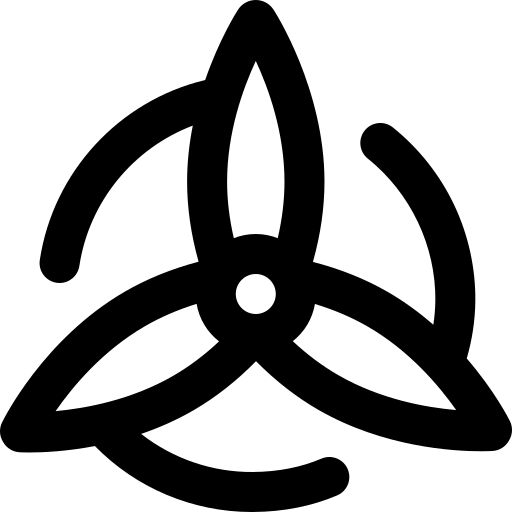
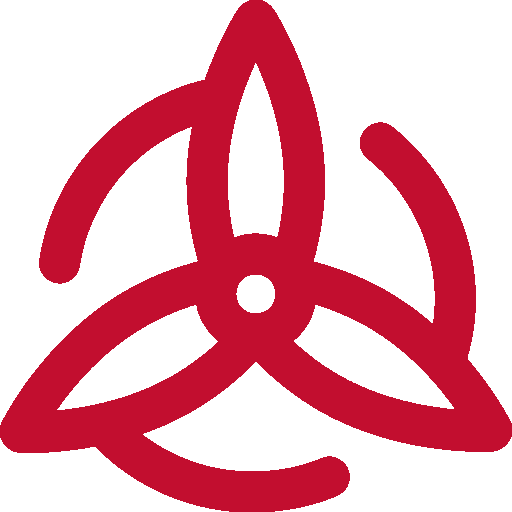
home finished

diff --git a/frontend/src/pages/Home.jsx b/frontend/src/pages/Home.jsx
@@ -52,15 +52,16 @@ function HomePage() {
     ? stocksLoading || interestLoading
     : stocksLoading;
 
-  if (isLoading) {
-    return (
-      <div className="grid grid-cols-1 justify-center items-center h-screen">
-        <div className="flex justify-center">
-          <div className="animate-spin rounded-full h-12 w-12 border-t-4 border-black border-solid"></div>
+    if (isLoading) {
+      return (
+        <div className="min-h-screen flex items-center justify-center bg-gray-50 py-12 px-4 sm:px-6 lg:px-8">
+          <div className="text-center">
+            <div className="w-16 h-16 border-4 border-t-4 border-gray-200 rounded-full animate-spin border-t-[#C20E2F] mx-auto"></div>
+            <p className="mt-4 text-lg text-gray-600">홈을 불러오는 중입니다...</p>
+          </div>
         </div>
-      </div>
-    );
-  }
+      );
+    }
 
   return (
     <div className="min-h-screen bg-gray-50">
@@ -68,15 +69,15 @@ function HomePage() {
       
       <main className="max-w-7xl mx-auto px-4 sm:px-6 lg:px-8 py-6 space-y-8">
         {/* Breaking News Banner */}
-        <div className="bg-blue-50 border-l-4 border-blue-500 p-4 rounded-r">
+        <div className="bg-[#fcf3f4] border-l-4 border-[#C20E2F] p-4 rounded-r">
           <div className="flex items-center">
-            <span className="bg-blue-100 text-blue-800 text-xs font-medium px-2.5 py-0.5 rounded">BREAKING</span>
+            <span className="bg-red-100 text-[#C20E2F] text-xs font-medium px-2.5 py-0.5 rounded">BREAKING</span>
             <p className="ml-3 text-sm font-medium text-gray-800">최신 시장 소식을 확인하세요</p>
           </div>
         </div>
 
         {/* Main News Section */}
-        <section className="bg-white rounded-xl shadow-sm border border-gray-100 overflow-hidden">
+        <section className="bg-white rounded-xl shadow-sm border border-gray-200 overflow-hidden">
           <div className="px-6 py-4 border-b border-gray-100 bg-gray-50">
             <h2 className="text-xl font-semibold text-gray-800">📰 주요 시장 뉴스</h2>
           </div>
@@ -84,15 +85,15 @@ function HomePage() {
         </section>
 
         {/* Market Overview */}
-        <section className="grid grid-cols-1 md:grid-cols-3 gap-5">
+        <section className="grid grid-cols-1 md:grid-cols-3 gap-3">
           <div className="bg-white p-5 rounded-xl shadow-sm border border-gray-100 hover:shadow-md transition-shadow">
             <div className="flex items-center justify-between mb-3">
               <h3 className="font-medium text-gray-700">코스피</h3>
               <span className="text-xs px-2 py-1 bg-blue-50 text-blue-700 rounded-full">KOREA</span>
             </div>
-            <div className="flex items-baseline">
-              <span className="text-2xl font-bold text-gray-900">2,710.56</span>
-              <span className="ml-2 text-sm font-medium text-green-500">+0.78%</span>
+            <div className="flex items-baseline md:-ml-2">
+              <span className="text-xl font-bold text-gray-900">2,710.56</span>
+              <span className="ml-2 text-sm font-medium text-red-500">+0.78%</span>
             </div>
             <p className="mt-1 text-xs text-gray-500">전일 대비 +21.45</p>
           </div>
@@ -102,9 +103,9 @@ function HomePage() {
               <h3 className="font-medium text-gray-700">나스닥</h3>
               <span className="text-xs px-2 py-1 bg-purple-50 text-purple-700 rounded-full">US</span>
             </div>
-            <div className="flex items-baseline">
-              <span className="text-2xl font-bold text-gray-900">15,823.34</span>
-              <span className="ml-2 text-sm font-medium text-red-500">-0.23%</span>
+            <div className="flex items-baseline md:-ml-2">
+              <span className="text-xl font-bold text-gray-900">15,823.34</span>
+              <span className="ml-2 text-sm font-medium text-blue-500">-0.23%</span>
             </div>
             <p className="mt-1 text-xs text-gray-500">전일 대비 -36.42</p>
           </div>
@@ -114,9 +115,9 @@ function HomePage() {
               <h3 className="font-medium text-gray-700">S&P 500</h3>
               <span className="text-xs px-2 py-1 bg-green-50 text-green-700 rounded-full">US</span>
             </div>
-            <div className="flex items-baseline">
-              <span className="text-2xl font-bold text-gray-900">5,456.12</span>
-              <span className="ml-2 text-sm font-medium text-green-500">+0.12%</span>
+            <div className="flex items-baseline md:-ml-2">
+              <span className="text-xl font-bold text-gray-900">5,456.12</span>
+              <span className="ml-2 text-sm font-medium text-red-500">+0.12%</span>
             </div>
             <p className="mt-1 text-xs text-gray-500">전일 대비 +6.54</p>
           </div>
@@ -125,19 +126,19 @@ function HomePage() {
         <div className="max-w-7xl mx-auto px-4 sm:px-6 lg:px-8">
           <div className="flex justify-between h-16">
             <div className="flex items-center">
-              <h1 className="text-2xl font-bold text-blue-600">Search</h1>
+              <h1 className="hidden md:block text-2xl font-bold text-[#C20E2F]">Search</h1>
             </div>
             <div className="flex-1 max-w-2xl mx-6">
-              <div className="relative">
+              <div className="relative mt-2">
                 <input
                   type="text"
                   placeholder="종목명 또는 티커 검색..."
                   value={searchTerm}
                   onChange={(e) => setSearchTerm(e.target.value)}
-                  className="w-full px-5 py-2.5 rounded-full border-0 bg-gray-100 text-gray-800 focus:ring-2 focus:ring-blue-500 focus:bg-white transition-all duration-200"
+                  className="w-full px-5 py-2.5 rounded-full border-0 bg-gray-100 text-gray-800 focus:ring-2 focus:ring-[#C20E2F] focus:bg-white transition-all duration-200 placeholder:text-base"
                 />
                 <svg
-                  className="absolute right-4 top-3 h-5 w-5 text-gray-400"
+                  className="absolute right-4 top-3.5 h-5 w-5 text-gray-400 "
                   fill="none"
                   viewBox="0 0 24 24"
                   stroke="currentColor"

diff --git a/frontend/src/components/MainNavigation.jsx b/frontend/src/components/MainNavigation.jsx
@@ -8,7 +8,7 @@ function MainNavigation() {
 
   return (
     <>
-      <header className="hidden md:block bg-white shadow-md transition-transform duration-300 max-w-5xl mx-auto">
+      <header className="block bg-white shadow-md transition-transform duration-300 max-w-5xl mx-auto">
         <div className="border-b border-gray-200 bg-white">
           <div className="max-w-7xl mx-auto px-4 sm:px-6 lg:px-8">
             <div className="flex justify-between items-center h-16">
@@ -18,18 +18,18 @@ function MainNavigation() {
                 onClick={() => window.scrollTo({ top: 0, behavior: "smooth" })}
               >
                 <img 
-                  className="h-8 w-auto" 
+                  className="h-10 w-auto" 
                   src={logoImg} 
                   alt="WindMill" 
                 />
-                <span className="ml-2 text-xl font-bold text-gray-900">
+                <span className="ml-2 text-4xl font-bold text-[#324D60]">
                   WindMill
                 </span>
               </NavLink>
 
           {token? (<LogoutButton></LogoutButton>):(<NavLink
               to="/auth?mode=login"
-              className="ml-2 px-4 py-2 rounded-lg font-medium text-white bg-[#C20E2F] hover:bg-red-700 transition-colors duration-200 flex items-center"
+              className="ml-2 px-3 py-1.5 rounded-lg font-medium text-white bg-[#C20E2F] hover:bg-red-700 transition-colors duration-200 flex items-center"
             >
               <span className="mr-2">🔑</span>
               로그인
@@ -51,13 +51,13 @@ function MainNavigation() {
               }`}
             end
           >
-            <span className="mr-2">🏠</span>
+            <span className="hidden md:block mr-2">🏠</span>
             홈
           </NavLink>
           
           <div className="relative group">
             <button className="px-4 py-3 rounded-lg font-medium text-gray-700 hover:bg-gray-100 hover:text-gray-900 flex items-center transition-colors duration-200">
-              <span className="mr-2">📰</span>
+              <span className="hidden md:block mr-2">📰</span>
               <span>뉴스</span>
             </button>
             <div className="absolute left-0 mt-1 w-48 rounded-lg shadow-xl bg-white border border-gray-200 opacity-0 invisible group-hover:opacity-100 group-hover:visible transition-all duration-200 z-50 transform -translate-y-1 group-hover:translate-y-0">
@@ -105,7 +105,7 @@ function MainNavigation() {
                       : 'text-gray-700 hover:bg-gray-100 hover:text-gray-900'
                   }`}
               >
-                <span className="mr-2">👤</span>
+                <span className="hidden md:block mr-2">👤</span>
                 내 정보
               </NavLink>
               <div className="absolute left-0 mt-1 w-48 rounded-lg shadow-xl bg-white border border-gray-200 opacity-0 invisible group-hover:opacity-100 group-hover:visible transition-all duration-200 z-50 transform -translate-y-1 group-hover:translate-y-0">
@@ -136,7 +136,7 @@ function MainNavigation() {
                     : 'text-gray-700 hover:bg-gray-100 hover:text-gray-900'
                 }`}
             >
-              <span className="mr-2">📊</span>
+              <span className="hidden md:block mr-2">📊</span>
               포트폴리오
               </NavLink></div>
             </>

diff --git a/frontend/src/components/StockItem.jsx b/frontend/src/components/StockItem.jsx
@@ -10,29 +10,22 @@ function StockItem({ stock, isInterested }) {
   };
 
   return (
-    <div className="group relative rounded-xl bg-white p-5 shadow-sm transition-all duration-300 hover:shadow-lg hover:-translate-y-0.5 border border-gray-100 hover:border-blue-100">
+    <div className="flex flex-col justify-between h-full  rounded-xl bg-white p-5 shadow-sm transition-all duration-300 hover:shadow-lg hover:-translate-y-0.5 border border-gray-100 hover:border-red-100">
       {/* Stock Info */}
       <div className="flex items-start justify-between">
-        <div>
+          <div>
           <h3 className="text-lg font-semibold text-gray-900">{stock.name}</h3>
           <p className="text-sm text-gray-500">{stock.ticker}</p>
-          {stock.price && (
-            <p className="mt-1 text-2xl font-bold text-gray-900">
-              ₩{stock.price.toLocaleString()}
-              <span className={`ml-2 text-sm font-medium ${stock.change_rate >= 0 ? 'text-green-500' : 'text-red-500'}`}>
-                {stock.change_rate >= 0 ? '↑' : '↓'} {Math.abs(stock.change_rate)}%
-              </span>
-            </p>
-          )}
-        </div>
+          </div>
+          
         
         {/* Favorite Button */}
         <button
           onClick={handleClick}
           className={`p-2 rounded-full transition-colors ${
             isInterested 
-              ? 'text-blue-500 bg-blue-50 hover:bg-blue-100' 
-              : 'text-gray-300 hover:text-blue-400 hover:bg-gray-50'
+              ? 'text-red-500 bg-red-50 hover:bg-red-100' 
+              : 'text-gray-300 hover:text-red-400 hover:bg-gray-50'
           }`}
           aria-label={isInterested ? 'Remove from favorites' : 'Add to favorites'}
         >
@@ -55,7 +48,17 @@ function StockItem({ stock, isInterested }) {
           </svg>
         </button>
       </div>
-
+      <div>
+      <div>
+          {stock.price && (
+            <p className="mt-1 text-2xl font-bold text-gray-900">
+              ₩{stock.price.toLocaleString()}
+              <span className={`ml-2 text-sm font-medium ${stock.change_rate >= 0 ? 'text-red-500' : 'text-blue-500'}`}>
+                {stock.change_rate >= 0 ? '↑' : '↓'} {Math.abs(stock.change_rate)}%
+              </span>
+            </p>
+          )}
+          </div>
       {/* Additional Stock Info */}
       <div className="mt-4 pt-4 border-t border-gray-100">
         <div className="grid grid-cols-2 gap-4 text-sm">
@@ -73,6 +76,7 @@ function StockItem({ stock, isInterested }) {
           </div>
         </div>
       </div>
+    </div>
     </div>
   );
 }

diff --git a/frontend/src/components/NewsSection.jsx b/frontend/src/components/NewsSection.jsx
@@ -53,13 +53,13 @@ function NewsSection() {
   );
 
   return (
-    <div className="group relative flex-1 bg-white p-4 rounded-lg shadow-md border border-black transition-all duration-500 ease-in-out origin-top hover:scale-y-125 hover:scale-x-105 hover:z-10 max-w-xl mx-auto overflow-hidden">
+    <div className="group relative flex-1 bg-white p-4 rounded-lg shadow-md border border-gray-200 transition-all duration-500 ease-in-out origin-top">
       <h2 className="text-lg font-bold mb-2 ml-2 text-black group-hover:text-[#C20E2F]">
         오늘의 주요 뉴스
       </h2>
 
       {/* 뉴스 슬라이드 영역 */}
-      <div className="relative flex h-24 rounded-lg border bg-white border-black group-hover:h-auto transition-all duration-500 overflow-hidden pl-3 pr-3">
+      <div className="relative flex h-24 rounded-lg border bg-white border-gray-200 group-hover:h-auto transition-all duration-500 overflow-hidden pl-3 pr-3">
         {/* 왼쪽 화살표 */}
         <button
           onClick={goPrev}
@@ -71,12 +71,12 @@ function NewsSection() {
 
         {/* 뉴스 내용 */}
         {current && (
-          <div className="flex-shrink-0 w-full p-4 transition-opacity duration-500 opacity-100 ">
+          <div className="flex-shrink-0 w-full p-3 transition-opacity duration-500 opacity-100 ">
             <a
               href={current.link}
               target="_blank"
               rel="noopener noreferrer"
-              className="text-sm font-medium hover:underline text-gray-900 hover:text-[#C20E2F] line-clamp-2"
+              className="text-sm font-bold hover:underline text-gray-900 hover:text-[#C20E2F]"
             >
               {current.title}
             </a>
